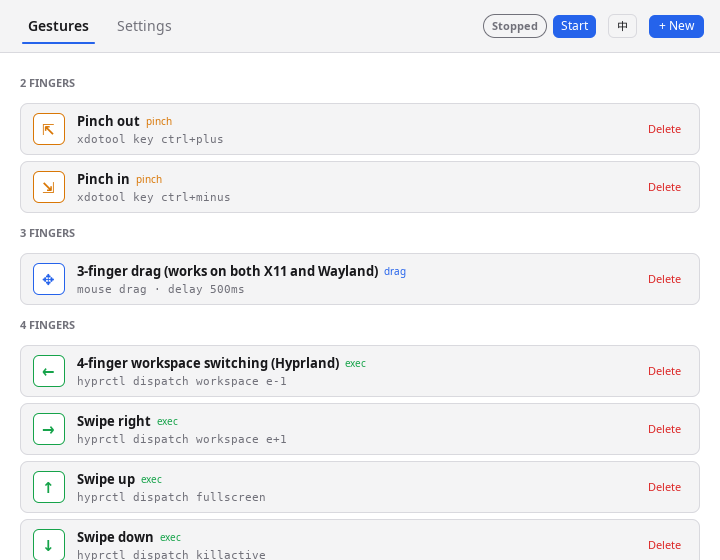
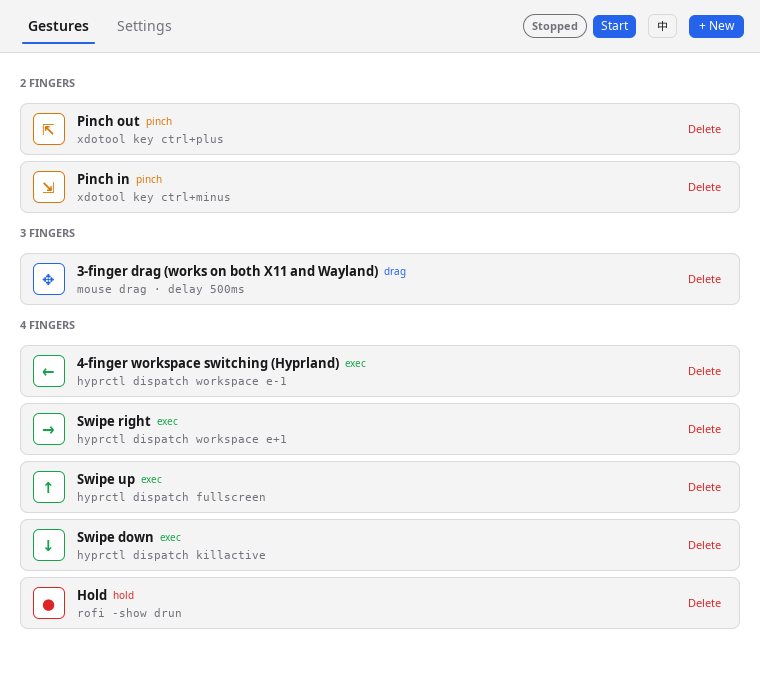
docs: fix README formatting and refresh panel screenshots
- README.zh-CN: remove a stray code fence that flipped rendering
  parity for the whole second half of the page
- Normalize blank lines around headings, paragraphs and code fences
  in both READMEs
- Center panel screenshots at width 700
- Re-capture screenshots at 760x700 so all gesture cards are visible

diff --git a/README.zh-CN.md b/README.zh-CN.md
@@ -25,19 +25,26 @@
 ### 推荐：包管理器安装
 
 #### Debian / Ubuntu
+
 在 [Releases 页面](https://github.com/ferstar/gestures/releases) 下载一体化 `.deb` 包：
+
 ```bash
 sudo dpkg -i gestures_1.1.0_amd64.deb
 ```
+
 会自动安装守护进程、图形面板、桌面菜单项及全局自启动配置。
 
 #### Arch Linux
+
 使用仓库内置的 `PKGBUILD`：
+
 ```bash
 cd packaging/arch
 makepkg -si
 ```
+
 或直接从源码生成 Arch 安装包：
+
 ```bash
 ./scripts/package-arch.sh
 sudo pacman -U dist/gestures-*.pkg.tar.zst
@@ -82,16 +89,23 @@ sudo cp build/gestures-panel /usr/bin/
 ## 运行与自启动
 
 ### 图形面板（推荐）
+
 在应用程序菜单中搜索 **Gestures**（或手势控制），或直接在终端运行：
+
 ```bash
 gestures-panel
 ```
+
 在面板中可实时直观管理手势、调节加速度方案，并一键开启或关闭**桌面自启动**。
 
-![手势控制面板](docs/images/panel-zh.png)
+<p align="center">
+  <img src="docs/images/panel-zh.png" alt="手势控制面板" width="700">
+</p>
 
 ### 命令行自启动管理
+
 将当前用户的自启动项写入 `~/.config/autostart/gestures.desktop`：
+
 ```bash
 gestures install-autostart
 ```
@@ -108,7 +122,7 @@ gestures reload
 # 生成默认配置文件（~/.config/gestures.kdl）
 gestures generate-config
 ```
-```
+
 
 ---
 
@@ -144,25 +158,33 @@ gestures generate-config
 触控板原始事件读取与 `/dev/uinput` 创建均需要权限：
 
 ```bash
+
 # 若 /dev/uinput 不存在则加载内核模块
+
 sudo modprobe uinput
 
 # 将当前用户加入 input 组（执行后需重新登录生效）
+
 sudo usermod -aG input "$USER"
+
 ```
 
 若 `/dev/uinput` 默认对 input 组无写权限，创建 `/etc/udev/rules.d/99-gestures-uinput.rules`：
 
 ```udev
+
 KERNEL=="uinput", GROUP="input", MODE="0660"
+
 ```
 
 重新加载 udev 规则：
 
 ```bash
+
 sudo udevadm control --reload-rules
 sudo udevadm trigger --subsystem-match=misc --sysname-match=uinput
 systemctl --user restart gestures.service
+
 ```
 
 ### X11 下报 `libxdo` 动态库缺失
@@ -170,8 +192,10 @@ systemctl --user restart gestures.service
 若系统升级了 `xdotool` / `libxdo`（例如从 `.so.3` 升至 `.so.4`），原二进制可能链接失效。执行以下命令重新编译安装：
 
 ```bash
+
 cargo install --path crates/gestures --force
 systemctl --user restart gestures
+
 ```
 
 ### 与桌面环境自带手势冲突

diff --git a/README.md b/README.md
@@ -21,19 +21,26 @@ Pre-compiled packages (`.deb`, Arch Linux `PKGBUILD`) and binaries are available
 ### Package Managers (Recommended)
 
 #### Debian / Ubuntu
+
 Download the unified `.deb` package from [Releases](https://github.com/ferstar/gestures/releases):
+
 ```bash
 sudo dpkg -i gestures_1.1.0_amd64.deb
 ```
+
 This installs the daemon (`gestures`), the GUI (`gestures-panel`), desktop menu entry, and global autostart.
 
 #### Arch Linux
+
 Use the provided `PKGBUILD` in `packaging/arch`:
+
 ```bash
 cd packaging/arch
 makepkg -si
 ```
+
 Or build directly from the git checkout:
+
 ```bash
 ./scripts/package-arch.sh
 sudo pacman -U dist/gestures-*.pkg.tar.zst
@@ -76,16 +83,23 @@ sudo cp build/gestures-panel /usr/bin/
 ## Running & Autostart
 
 ### Graphical Panel
+
 Launch **Gestures** from your desktop application launcher, or run:
+
 ```bash
 gestures-panel
 ```
+
 From the panel, you can configure gestures, adjust acceleration, and toggle **Desktop Autostart** on or off.
 
-![Gestures control panel](docs/images/panel-en.png)
+<p align="center">
+  <img src="docs/images/panel-en.png" alt="Gestures control panel" width="700">
+</p>
 
 ### Desktop Autostart (CLI)
+
 To start `gestures` automatically upon graphical desktop login:
+
 ```bash
 # Install autostart desktop entry to ~/.config/autostart/gestures.desktop
 gestures install-autostart
